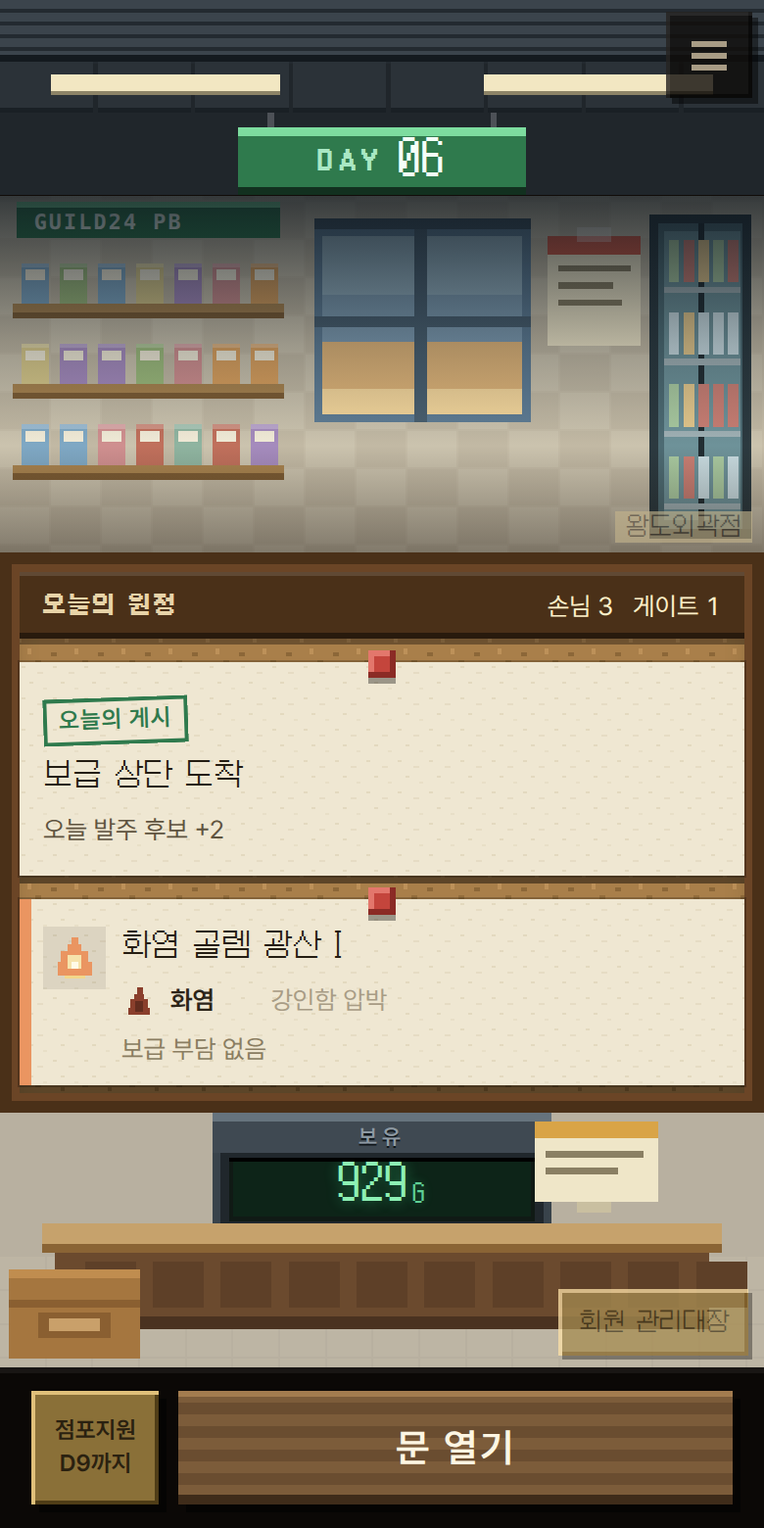
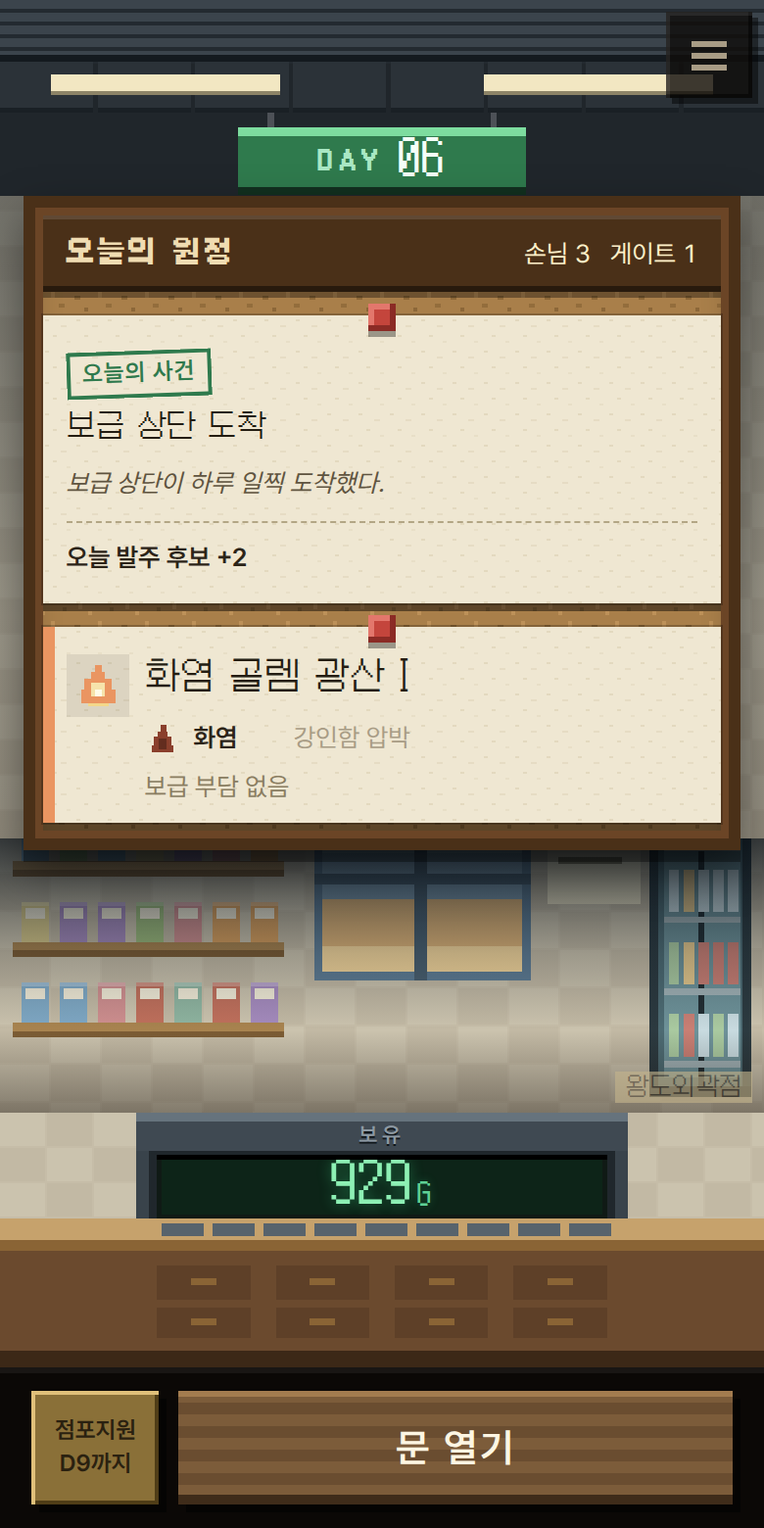
Stage 8.5 batch 5: Morning is read in the order it is decided
The room was built furniture-first. Ceiling and counter are art sized to
the column, so a wider window made them taller and the notice board got
what was left: measured at 1280 the board was 14px holding 272px of gates.
Batch 4 moved the board into its own column, which gave it height but made
it a side panel - 778px of cork holding 121px of notices - while DAY and
the till sat at x=439 of 1280. Both are the same mistake at different
angles: the scenery took its share before the decision did.

The board now hangs on the wall directly under the day sign and is as tall
as what is pinned to it; the wall absorbs the slack; the counter closes the
room. Measured at 390 / 900 / 1280: DAY, the board and the till all centre
on the screen to within a pixel, and the board is the largest band on it.
The art boxes for the ceiling and the counter are capped so neither grows
with the window again.

The counter carries the float and nothing else. A promo standee, a crate
stack and the store-support plates used to flank the register, so the one
thing the player reads there was the smallest object on the surface, and
the counter stopped short of the floor so the whole fixture read as
hovering. The dressing is gone, the register takes that width back, the
counter runs the width of the room on a plinth with its own drawers, and
the band continues that edge column either side of the capped art. The
standing store-support list moved into the store menu.
[…]

diff --git a/dist/ui/app.js b/dist/ui/app.js
@@ -174,20 +174,24 @@ function specialUI(){const s=game.run,e=s.special;if(!e||e.used)return '';if(e.k
 // (ceiling and shutter, shelving wall, notice board, counter) and the interface hangs on
 // those surfaces: the day on the shop sign, today's gates pinned to the board, the till
 // showing the float, the store support sitting on the counter.
+/* The board is hung high on the wall, directly under the day sign, because that is the
+   order the morning is read in: DAY, then today's expedition, then the Gates and their
+   Hazards, then the float on the counter, then the shutter. The scenery keeps whatever
+   room is left over rather than taking its share first. */
 function morningScreen(){
  const s=game.run;
  return '<div class="stage p-morning">'+menuFab()
  +'<div class="store">'
   +'<div class="band ceiling"><span class="mount">'+Scene.ceiling()
    +'<span class="daysign" style="'+Scene.anchorStyle('daysign')+'"><i>DAY</i><b>'+String(s.day).padStart(2,'0')+'</b></span></span></div>'
-  +'<div class="band wall">'+Scene.wall(s.day)+'<span class="branchplate">'+E(s.branch)+'</span></div>'
   +'<div class="board" id="phase-content" tabindex="-1" aria-label="아침">'
    +'<p class="board-rail" id="visitor-count">오늘의 원정<b>손님 '+s.queue.length+'</b><b>게이트 '+s.dungeons.length+'</b></p>'
    +'<div class="pinned">'+(s.event?eventSlip(s.event):'')+deepSlip()+s.dungeons.map(gatePlate).join('')+specialUI()+'</div></div>'
+  +'<div class="band wall">'+Scene.wall(s.day)+'<span class="branchplate">'+E(s.branch)+'</span></div>'
   +'<div class="band counter"><span class="mount">'+Scene.counter()
    +'<span class="till-cap" style="'+Scene.anchorStyle('tillLabel')+'">보유</span>'
    +'<span class="till" style="'+Scene.anchorStyle('till')+'" aria-label="보유 자금 '+fmt(s.money)+'G"><b class="coin">'+fmt(s.money)+'</b><i>G</i></span>'
-   +relicTray()+'</span></div>'
+   +'</span></div>'
  +'</div>'
  +'<div class="dock">'+relicWindowLink()+'<button class="pull" data-action="begin-order"><span>문 열기</span></button></div></div>';
 }
@@ -211,16 +215,19 @@ function deepSlip(){
  +(taken?'<span class="body">'+E(c.paid)+' '+fmt(t.paid)+'G · '+E(c.sink)+'</span>'
         :'<span class="body">'+E(c.cost)+' '+E(c.gain)+'</span><span class="body">'+E(c.sink)+' '+E(c.optional)+'</span>')
  +'</div>';}
+/* EVENT §3-1. Three things have to arrive at once: that something happened today, what
+   happened, and what is switched on because of it. The catalog already keeps those last two
+   apart - `reveal` is the situation and `description` is the effect - so the notice says both
+   and sets them apart instead of showing the effect line alone with no cause. */
 function eventSlip(e){
  return '<button class="slip event" data-action="event-again"><span class="pin"></span>'
- +'<span class="stamp-line">오늘의 게시</span><b>'+E(e.name)+'</b><span class="body">'+E(e.description)+'</span></button>';}
-// Store support sits on the counter as small brass plates, not a list.
-function relicTray(){const owned=game.ownedRelics();if(!owned.length)return '';
- return '<span class="tray">'+owned.slice(0,5).map(r=>'<button class="plate" data-action="relics">'+E(r.name)+'</button>').join('')
- +(owned.length>5?'<button class="plate more" data-action="relics">+'+(owned.length-5)+'</button>':'')+'</span>';}
-// Owned store support reads as small brass plates screwed to the wall, not a list.
-function relicStrip(){const owned=game.ownedRelics();if(!owned.length)return '';
- return '<div class="relic-strip"><span class="lab">점포지원</span>'+owned.map(r=>'<button class="plate" data-action="relics">'+E(r.name)+'</button>').join('')+'</div>';}
+ +'<span class="stamp-line">오늘의 사건</span><b>'+E(e.name)+'</b>'
+ +'<span class="flavor">'+E(e.reveal)+'</span>'
+ +'<span class="effect">'+E(e.description)+'</span></button>';}
+/* Owned store support used to sit on the counter as a row of brass plates, which is where
+   the float is. It crowded the till off its own surface, so the counter now carries the
+   register and nothing else and the standing list lives in the store menu instead - the same
+   modal, reached from where every other standing reference is reached. */
 function relicWindowLink(){const w=game.run.relicWindow;if(!game.canBuyRelic())return '';
  return '<button class="brass" data-action="relics">점포지원<br>'+(w.milestoneDay===0?'무료':'D'+(w.expiryDay-1)+'까지')+'</button>';}
 // The readiness readout. Qualitative only: 우세/접전/불리 and 취약/불안/대응/충분.
@@ -634,8 +641,8 @@ const isLocked=e=>(e.metaUnlock&&Meta.distinctBossClear(game.account)<e.metaUnlo
 
 function codex(){const a=game.account;let list=codexTab==='items'?D.items:codexTab==='jobs'?D.jobs:codexTab==='facilities'?D.relics:codexTab==='contracts'?D.contracts:[];return `<div class="row between wrap" style="margin-bottom:18px"><div><h3>본사 ${GRADE_COPY[Meta.grade(a)].label}</h3><p class="smalltext">${GRADE_COPY[Meta.grade(a)].flavor}</p><p class="smalltext">직업 숙련 ${Meta.totalJobMastery(a)} / 42 · 서로 다른 마왕 토벌 ${Meta.distinctBossClear(a)} / 7</p></div><span class="muted">${a.runs}회 영업 · ${a.wins}회 마왕 토벌</span></div><details><summary>발견 수첩 · ${(a.discoveries||[]).length}개</summary>${(a.discoveries||[]).map(e=>`<p class="discovery">${E(e.text)}</p>`).join('')||'<p>아직 기록된 발견이 없다.</p>'}</details><div class="tabs">${[['items','상품 '+D.items.length],['jobs','직업 6'],['facilities','점포지원 '+D.relics.length],['monsters','몬스터 지식'],['contracts','시작 계약']].map(([id,label])=>btn(label,'codex-tab',codexTab===id?'small active':'small',`data-id="${id}"`)).join('')}</div><div class="unlock-grid">${codexTab==='monsters'?D.dungeons.filter(d=>d.id!=='final').map(d=>{const seen=a.knowledge[d.id]||0;return `<div class="unlock ${seen?'':'locked'}"><h3>${seen?d.monster:'???'}</h3><p>${d.name} · 보급 생환 ${seen}회</p><p>${seen?d.hazards.slice(0,seen>=3?3:1).map(h=>D.hazards[h]).join(' · '):'위험 특성 ???'}</p><p>${seen>=5?'약점: '+d.weakness:'약점 ???'}</p></div>`;}).join(''):list.map(it=>`<div class="unlock ${isLocked(it)?'locked':''}">${codexTab==='items'?Art.itemIcon(it.id,42):''}<h3>${E(it.name)}</h3><p>${E(it.description||'길드 등록 직업.')}</p>${it.effects?effectList(it):''}<p class="gold-text" style="margin-top:8px">${unlockProgress(it)}</p></div>`).join('')}</div>`;}
 function stockModal(){const s=game.run;return `<p class="muted" style="margin-bottom:15px">유통기한은 입고일부터 계산합니다. 재고 정리는 상품 기본 매입가의 50%를 회수합니다.</p><div class="unlock-grid">${groupStock().map(st=>{const it=D.itemBy[st.item];return `<div class="unlock">${Art.itemIcon(it.id,43)}<h3>${it.name} ×${st.count}</h3><p>${st.expires===null?'유통기한 없음':(st.expires-s.day)+'일 남음'}</p>${['morning','order','night','closing','final'].includes(s.phase)?btn('1개 정리 +'+Math.floor(it.buy*.5)+'G','liquidate','small',`data-id="${st.id}"`):''}</div>`;}).join('')||'<p>창고가 비어 있습니다.</p>'}</div>`;}
-function newRun(){return `<div class="eyebrow">길드리테일 가맹 계약</div><h2 class="welcome-title">오늘도 문을 연다.</h2><p class="muted">기본 자금 1,200G · 창고 24칸 · 마왕성 개방까지 30일.</p><div class="welcome-band">계약서를 접어 카운터 아래 넣었다. 시작 재고는 창고에 있다.</div><h3 style="margin-bottom:10px">시작 계약</h3><div class="contract-grid">${D.contracts.map(c=>{const locked=!Meta.contractUnlocked(game.account,c);return `<button class="contract ${contract===c.id?'active':''}" data-action="contract" data-id="${c.id}" ${locked?'disabled':''}><strong>${c.name}${locked?' · 잠김':''}</strong><span class="muted">${c.description}</span>${locked?'<br><small>'+unlockProgress(c)+'</small>':''}</button>`;}).join('')}</div><details style="margin-top:15px"><summary class="smalltext">재현용 Seed 지정</summary><label class="smalltext" for="seed">비워 두면 새로운 Seed로 시작합니다.</label><input id="seed" class="seed-field" placeholder="예: guild24-first-shift" maxlength="80" value="${game.run?.phase==='foundation'?E(game.run.seed):''}"></details>${game.run?.phase==='foundation'?'<p class="smalltext" style="margin-top:10px">계약만 바꿉니다. 이 점포의 점포지원 후보와 첫 모험가는 그대로입니다.</p>':''}${game.run&&!['end','foundation'].includes(game.run.phase)?'<p class="danger-text" style="margin-top:14px">현재 런을 보상 없이 포기하고 새 점포를 시작합니다.</p>':''}`;}
-function settings(){return `<div class="stack"><p>자동저장은 현재 브라우저에 보관됩니다. 다른 기기로 옮길 때 저장 파일을 내보내세요.</p><div class="row wrap">${btn('저장 내보내기','export','stamp')}${btn('저장 가져오기','import')}</div><div class="row wrap">${btn(game.account.settings.muted?'소리 켜기':'소리 끄기','sound')}</div><hr style="border:0;border-top:1px solid var(--line);width:100%"><p class="muted">게임의 시간은 행동할 때만 흐릅니다. 소리는 처음에 꺼져 있습니다.</p>${game.run&&game.run.phase!=='end'?btn('현재 런 포기 · 새 점포 준비','new','danger'):''}<div class="row wrap">${btn('모든 게임 데이터 초기화','reset','danger')}</div><small>버전 0.4 · 로컬 실행 지원 · 외부 연결 없음</small></div>`;}
+function newRun(){return `<div class="eyebrow">길드리테일 가맹 계약</div><h2 class="welcome-title">오늘도 문을 연다.</h2><p class="muted">기본 자금 1,200G · 창고 24칸 · 마왕성 개방까지 30일.</p><div class="welcome-band">계약서를 접어 카운터 아래 넣었다. 시작 재고는 창고에 있다.</div><h3 style="margin-bottom:10px">시작 계약</h3><div class="contract-grid">${D.contracts.map(c=>{const locked=!Meta.contractUnlocked(game.account,c);return `<button class="contract ${contract===c.id?'active':''}" data-action="contract" data-id="${c.id}" ${locked?'disabled':''}><strong>${c.name}${locked?' · 잠김':''}</strong><span class="muted">${c.description}</span>${locked?'<br><small>'+unlockProgress(c)+'</small>':''}</button>`;}).join('')}</div><details style="margin-top:15px"><summary class="smalltext">재현용 Seed 지정</summary><label class="smalltext" for="seed">비워 두면 새로운 Seed로 시작합니다.</label><input id="seed" class="seed-field" placeholder="예: guild24-first-shift" maxlength="80" value="${game.run?.phase==='foundation'?E(game.run.seed):''}"></details>${game.run?.phase==='foundation'?'<p class="smalltext" style="margin-top:10px">계약만 바꿉니다. 이 점포의 점포지원 후보와 첫 모험가는 그대로입니다.</p>':''}${game.run&&!['end','foundation'].includes(game.run.phase)?'<p class="danger-text" style="margin-top:14px">지금 진행 상황을 모두 포기하고 새로운 점포를 시작합니다. 보상은 없습니다.</p><p class="smalltext">본사 기록은 그대로 남습니다. 도감 · 가맹등급 · 해금은 지워지지 않습니다.</p>':''}`;}
+function settings(){return `<div class="stack"><p>자동저장은 현재 브라우저에 보관됩니다. 다른 기기로 옮길 때 저장 파일을 내보내세요.</p><div class="row wrap">${btn('저장 내보내기','export','stamp')}${btn('저장 가져오기','import')}</div><div class="row wrap">${btn(game.account.settings.muted?'소리 켜기':'소리 끄기','sound')}</div><hr style="border:0;border-top:1px solid var(--line);width:100%"><p class="muted">게임의 시간은 행동할 때만 흐릅니다. 소리는 처음에 꺼져 있습니다.</p>${game.run&&game.run.phase!=='end'?btn('현재 지점 포기','new','danger'):''}<div class="row wrap">${btn('모든 게임 데이터 초기화','reset','danger')}</div><small>버전 0.4 · 로컬 실행 지원 · 외부 연결 없음</small></div>`;}
 function help(){return `<div class="stack"><h3>점포지원</h3><p>DAY 0에는 무료로 하나를 선택합니다. DAY 5·10·15·20·25·30에는 자금을 써서 구매합니다. 사지 않은 후보는 다음 구매 기회 전날까지 보류할 수 있습니다. 판매 중에는 구매할 수 없습니다.</p><h3>발주</h3><p>기본 방문객은 3~6명. 시설·계약·이벤트와 활동 가능한 모험가 수에 따라 달라집니다. 아침에 표시된 인원은 오늘 실제 방문할 인원입니다. 게이트는 초반 1곳에서 후반 최대 3곳까지 열리고, 임시 게이트가 추가될 수 있습니다.</p><p>수량을 고른 뒤 발주를 확정합니다. 남은 재고와 유통기한, 운영비도 확인하세요.</p><h3>판매와 관계</h3><p>목적지·능력·특성을 보고 상품을 고릅니다. 바가지는 수입과 관계를 맞바꾸고, 반값은 이익을 포기해 손님에게 투자합니다. 정가는 기본 거래입니다. 같은 상품·같은 가격으로 거절당한 제안은 그날 반복할 수 없습니다.</p><p>단골도는 구매 의사와 재방문에 영향을 줍니다. 능력을 직접 올리지는 않습니다. 손님의 특성은 처음부터 전부 표시되며, 표시된 특성이 원정에서 실제로 작용하는 특성입니다.</p><h3>원정과 마감</h3><p>판매한 소비품은 그날 원정에서 사용됩니다. 기본 2칸, Lv.10부터 최대 3칸입니다. 밤에는 귀환 결과를 보고, 마감에서 거래와 보급의 작용을 확인합니다.</p><p>사망은 이번 영업에서 영구적입니다. 중상은 며칠의 휴식이 필요합니다. 30일에는 마지막 발주와 점포지원을 결정하고, 최대 3명에게 보급해 마왕성으로 보냅니다.</p><p>영업이 끝나면 상품 해금·몬스터 지식·발견·가맹등급은 남습니다. 모험가·재고·돈·설비는 다음 영업에 이어지지 않습니다.</p><p>적자일 때는 재고 정리로 운영비를 충당할 수 있습니다. 시간을 재촉하는 제한은 없습니다.</p></div>`;}
 /* Which reveal this Day owes the player, if any. Seen state is persisted, so a reload
    cannot replay a reveal or reorder it (BOSS-Q02, UI-Q40). */
@@ -679,14 +686,14 @@ function renderModal(){const root=$('#modal-root');if(!modal){root.innerHTML='';
   body=bossReveal();
   footer=btn(stage==='d30'?c.d30.button:stage==='d15'?c.d15.button:c.d5.button,'boss-seen','stamp');
   narrow=stage!=='d30';}
- else if(modal==='new'){title='새 점포 준비';body=(Save.error?'<p class="save-alert">'+E(Save.error)+'</p>':'')+newRun();footer=game.run&&!['end','foundation'].includes(game.run.phase)?btn('현재 런 포기 · 새 점포 준비','start','danger'):btn('첫 점포지원 고르기','start','stamp');narrow=true;}
+ else if(modal==='new'){title='새 점포 준비';body=(Save.error?'<p class="save-alert">'+E(Save.error)+'</p>':'')+newRun();footer=game.run&&!['end','foundation'].includes(game.run.phase)?btn('현재 지점 포기','start','danger'):btn('첫 점포지원 고르기','start','stamp');narrow=true;}
  else if(modal==='event'){title=E(s.event?.name||'오늘의 사건');body=eventReveal();footer=btn('오늘 상황 보기','event-seen','stamp');narrow=true;}
  else if(modal==='gates'){title='오늘 열린 게이트';body='<div class="gate-plates">'+s.dungeons.map(gatePlate).join('')+'</div>';}
- else if(modal==='menu'){title='점포 메뉴';body='<div class="menu-list">'+btn('모험가 수첩','roster')+btn('도감','codex')+btn('점주 가이드','help')+btn('설정 · 저장','settings')+btn('소리 켜기 / 끄기','sound')
+ else if(modal==='menu'){title='점포 메뉴';body='<div class="menu-list">'+btn('모험가 수첩','roster')+btn('도감','codex')+(game.run&&game.ownedRelics().length?btn('점포지원','relics'):'')+btn('점주 가이드','help')+btn('설정 · 저장','settings')+btn('소리 켜기 / 끄기','sound')
   /* Both destructive actions are named here rather than hidden inside 설정, and they are
      named apart: one ends this Run, the other ends everything. The Run one is absent when
      there is no Run to abandon rather than present and inert. */
-  +(game.run&&!['end','foundation'].includes(game.run.phase)?btn('현재 런 포기','new','danger'):'')
+  +(game.run&&!['end','foundation'].includes(game.run.phase)?btn('현재 지점 포기','new','danger'):'')
   +btn('모든 게임 데이터 초기화','reset','danger')+'</div>';narrow=true;}
  else if(modal==='roster'){title='모험가 수첩';body=rosterList();}
  else if(modal.startsWith('npc:')){title='우리 점포의 모험가';body=npcDetail(modal.slice(4));footer=btn('수첩으로','roster');}
@@ -695,7 +702,7 @@ function renderModal(){const root=$('#modal-root');if(!modal){root.innerHTML='';
  else if(modal==='help'){title='점주 가이드';body=help();narrow=true;}
  else if(modal==='settings'){title='영업 설정';body=settings();narrow=true;}
  else if(modal==='bossConfirm'){title='제0게이트 — 마지막 출발';body='<p>선택한 원정대가 마왕성으로 출발합니다. 남은 슬롯과 보급을 확인하셨나요?</p>';footer=btn('보급으로 돌아가기','dismiss')+btn('최종 원정 시작','boss-go','stamp');narrow=true;}
- else if(modal==='retireConfirm'){title='이번 영업을 마감할까요?';body='<p>현재 런의 자원과 모험가는 다음 런으로 이어지지 않습니다.</p>';footer=btn('계속 영업','dismiss')+btn('폐점','retire-go','danger');narrow=true;}
+ else if(modal==='retireConfirm'){title='이번 영업을 마감할까요?';body='<p>이 지점의 자금과 모험가는 다음 점포로 이어지지 않습니다.</p>';footer=btn('계속 영업','dismiss')+btn('폐점','retire-go','danger');narrow=true;}
  else if(modal==='resetConfirm'){title='모든 게임 데이터 초기화';body='<p>이 브라우저에 보관된 GUILD24 저장을 전부 지웁니다. 현재 영업, 모험가, 재고, 자금, 점포지원과 함께 직업 숙련 · 마왕 토벌 기록 · 가맹등급 · 몬스터 지식 · 해금과 점주 가이드 진행까지 남지 않습니다.</p><p class="danger-text">되돌릴 수 없습니다. 남기고 싶다면 먼저 저장을 내보내 주세요.</p>';footer=btn('저장 내보내기','export')+btn('취소','dismiss')+btn('전부 지우기','reset-go','danger');narrow=true;}
  else if(modal==='importConfirm'){title='저장 파일 가져오기';body='<p>현재 브라우저의 진행을 가져온 저장으로 교체합니다. 기존 진행을 남기려면 먼저 내보내 주세요.</p>';footer=btn('저장 내보내기','export')+btn('파일 선택','import-go','stamp');narrow=true;}
  else if(modal==='debug'){title='개발용 Debug · 일반 플레이 비노출';body=`<pre class="debug">${E(JSON.stringify({seed:s.seed,rngState:s.rngState,lastRNG:game.rng.last,offers:s.offers.map(o=>({...o,rarity:D.itemBy[o.item].rarity})),npc:game.current(),dungeons:s.dungeons,results:s.results.map(r=>({name:r.name,outcome:r.outcome,...r.debug})),boss:s.bossDebug},null,2))}</pre>`;}

diff --git a/dist/ui/ui.css b/dist/ui/ui.css
@@ -119,13 +119,36 @@ input[type=text],.seed-field{background:#0b0806;border:0;box-shadow:inset 2px 2p
    Four stacked bands build a room; the interface hangs on their surfaces.
    ===================================================================== */
 .p-morning{background:#100c09}
-.store{flex:1;min-height:0;display:flex;flex-direction:column;overflow:hidden}
+/* The room reads top to bottom in the order the morning is decided: the day sign, the
+   notice board on the wall under it, the room itself, the counter with the float, the
+   shutter. The wall is the only band that grows, so the scenery takes what is left after
+   the decision rather than before it. */
+.store{position:relative;flex:1;min-height:0;display:flex;flex-direction:column;overflow:hidden;
+ background:linear-gradient(180deg,#0a121a8c 0,#0a121a3d 45%,#140d0866 100%),var(--tex-tile),#c6bda8;
+ background-size:auto,48px 36px}
 .band{position:relative;flex-shrink:0;width:100%}
-/* anchors are percentages of the ART, so the mount is exactly the art's box */
-.band .mount{position:relative;display:block;width:100%}
+/* anchors are percentages of the ART, so the mount is exactly the art's box. Capping the
+   mount stops the ceiling and the counter from growing with the column - left uncapped they
+   took 422px of an 860px viewport at 1280 and the decision got the remainder. The cap is
+   centred, so the day sign and the till (both anchored to the middle of their art) land on
+   the middle of the screen. */
+.band .mount{position:relative;display:block;width:100%;max-width:var(--roomw,100%);margin:0 auto}
 .band .band-art{display:block;width:100%;height:auto}
-.band.wall{flex:1 1 auto;min-height:104px;overflow:hidden;background:var(--tex-tile),#c6bda8;background-size:48px 36px}
-.band.wall .band-art{position:absolute;left:0;right:0;bottom:0;width:100%;height:auto}
+/* each band still spans the screen: outside the capped art it carries that art's own ground -
+   the ceiling's panelling, the floor tiling the counter stands on */
+.band.ceiling{background:#20262b}
+/* The counter art is capped so the register does not grow with the window, so the band
+   continues the counter's own edge column either side of it - slab, front edge, body, plinth
+   at the heights the art draws them (50/60/65/112 of 120). Above the slab the room carries on
+   as wall. Without this the counter reads as an island floating in the middle of the floor. */
+.band.counter{background:linear-gradient(180deg,
+  #0000 0,#0000 41.67%,#c6a26c 41.67%,#c6a26c 50%,#8a6435 50%,#8a6435 54.17%,
+  #6b4a2e 54.17%,#6b4a2e 93.33%,#3c2817 93.33%),var(--tex-tile),#c6bda8;
+ background-size:auto,48px 36px}
+.band.wall{flex:1 1 auto;min-height:32px;overflow:hidden;background:var(--tex-tile),#c6bda8;background-size:48px 36px}
+/* the wall art is authored to slice, so let it cover whatever height the wall is left with -
+   anchored to the bottom it showed only a washed sliver of floor once the board took the room */
+.band.wall .band-art{position:absolute;inset:0;width:100%;height:100%}
 .band.wall:after{content:'';position:absolute;inset:0;
  background:linear-gradient(180deg,#0a121ac4 0,#0a121a3d 42%,#00000000 70%,#140d0866 100%)}
 /* the shop sign hanging from the ceiling carries the day */
@@ -134,13 +157,20 @@ input[type=text],.seed-field{background:#0b0806;border:0;box-shadow:inset 2px 2p
 .daysign b{font:400 24px/1 var(--f-led);color:#f4fff8;-webkit-font-smoothing:none}
 .branchplate{position:absolute;right:6px;bottom:5px;z-index:2;padding:2px 5px;font:400 12px/1 var(--f-plate);
  color:#5a5040;background:#c4b48c;opacity:.62;-webkit-font-smoothing:none}
-/* ---- notice board: the day's gates, pinned to cork ---- */
-.board{flex:0 1 auto;min-height:0;max-height:54%;overflow-y:auto;overscroll-behavior:contain;outline:none;
+/* ---- notice board: the day's gates, pinned to cork ----
+   A board hung on the wall, so it is as tall as what is pinned to it. It used to be a
+   full-bleed strip that either got squeezed to 14px or, as a column, stood 778px tall
+   holding 121px of notices - 84% bare cork. It now hugs its content and only scrolls on a
+   day that genuinely overflows. */
+.board{position:relative;z-index:2;flex:0 1 auto;min-height:0;max-height:62%;width:min(680px,94%);
+ margin:0 auto -6px;overflow-y:auto;overscroll-behavior:contain;outline:none;
  background:var(--tex-cork),#a97f4a;
- box-shadow:inset 0 0 0 6px #4a3018,inset 0 0 0 10px #6b4526,inset 0 8px 18px #00000073,0 -4px 0 #00000059}
+ box-shadow:inset 0 0 0 6px #4a3018,inset 0 0 0 10px #6b4526,inset 0 8px 18px #00000073,
+  0 6px 0 #00000059,0 10px 22px #00000073}
+/* the board's own header: the first thing read after the day */
 .board-rail{position:sticky;top:0;z-index:3;display:flex;align-items:center;gap:10px;flex-wrap:wrap;
- margin:10px 10px 0;padding:8px 12px;background:#4a3018;color:#e7d3a8;
- font:700 12px/1.5 var(--f-sign);letter-spacing:.06em;-webkit-font-smoothing:none;
+ margin:10px 10px 0;padding:9px 12px;background:#4a3018;color:#f0dcb2;
+ font:700 15px/1.4 var(--f-sign);letter-spacing:.06em;-webkit-font-smoothing:none;
  box-shadow:inset 0 2px 0 #ffffff1f,inset 0 -3px 0 #00000073,0 3px 0 #00000059}
 .board-rail b{margin-left:auto;font:400 13px/1 var(--ui);font-variant-numeric:tabular-nums;color:#fff0c9;letter-spacing:0}
 .board-rail b+b{margin-left:0}
@@ -157,6 +187,8 @@ input[type=text],.seed-field{background:#0b0806;border:0;box-shadow:inset 2px 2p
 .slip.gate:before{content:'';position:absolute;left:0;top:0;bottom:0;width:6px;background:var(--fam,#caa46a)}
 .slip .crest{position:absolute;left:12px;top:14px;width:32px;height:32px;display:grid;place-items:center;background:#00000014}
 .slip>b{display:block;font:400 15px/1.4 var(--f-plate);-webkit-font-smoothing:none;margin-bottom:7px;color:#241d12}
+/* the Gate name is the decision the morning is about, so it outranks everything else pinned up */
+.slip.gate>b{font-size:18px;margin-bottom:8px}
 .slip .hazards{display:grid;gap:3px}
 .slip .hazards li{display:flex;align-items:center;gap:7px;font:400 13px/1.55 var(--ui);color:#5f5440}
 .slip .hazards .hz-icon{flex-shrink:0;color:#8a3f2c}
@@ -167,16 +199,20 @@ input[type=text],.seed-field{background:#0b0806;border:0;box-shadow:inset 2px 2p
 .slip.event{padding-top:16px}
 .slip.event .stamp-line{margin:0 0 6px;color:#2f7a4d;box-shadow:inset 0 0 0 2px #2f7a4d}
 .slip.event .body{display:block;font:400 13px/1.6 var(--ui);color:#5f5440}
+/* EVENT §3-1: what happened, then what it switched on. The situation keeps the line breaks
+   it was authored with; the effect is a stated fact, ruled off from the story above it. */
+.slip.event .flavor{display:block;white-space:pre-line;font:400 13px/1.7 var(--ui);color:#5f5440;font-style:italic}
+.slip.event .effect{display:block;margin-top:8px;padding-top:8px;border-top:1px dashed #b3a685;
+ font:600 13px/1.6 var(--ui);color:#2c2418}
+.event-reveal .flavor{margin:0;white-space:pre-line;font:400 15px/1.7 var(--ui);color:#cbbba0;font-style:italic}
+.event-reveal .effect{margin:14px 0 0;padding-top:12px;border-top:1px dashed #ffffff26;
+ font:600 14px/1.6 var(--ui);color:var(--gold)}
 /* ---- counter band: the till and the store support tray ---- */
 .till-cap{position:absolute;z-index:2;display:flex;align-items:center;justify-content:center;overflow:hidden;
  white-space:nowrap;font:600 11px/1 var(--ui);letter-spacing:.22em;color:#8e9aa3;text-shadow:0 1px 0 #10161a}
 .till{position:absolute;z-index:2;display:flex;align-items:baseline;justify-content:center;gap:2px;overflow:hidden;white-space:nowrap}
-.till i{font:400 13px/1 var(--f-led);font-style:normal;color:#5fd196;-webkit-font-smoothing:none;text-shadow:0 0 5px #3fe08c4d}
-.till b{font:400 24px/1 var(--f-led);color:#8df0b4;text-shadow:0 0 7px #3fe08c73;-webkit-font-smoothing:none}
-.tray{position:absolute;left:34%;bottom:5%;right:2%;z-index:2;display:flex;gap:5px;flex-wrap:wrap;justify-content:flex-end}
-.tray .plate{min-height:34px;min-width:0;padding:8px 10px;font:400 12px/1 var(--f-plate);-webkit-font-smoothing:none;color:#463a1c;background:#a78d52;opacity:.75;
- box-shadow:inset 2px 2px 0 #ffe3a8,inset -2px -2px 0 #8a6a2c,2px 2px 0 #00000073}
-.tray .plate:hover{background:#d3b169}
+.till i{font:400 15px/1 var(--f-led);font-style:normal;color:#5fd196;-webkit-font-smoothing:none;text-shadow:0 0 5px #3fe08c4d}
+.till b{font:400 28px/1 var(--f-led);color:#8df0b4;text-shadow:0 0 7px #3fe08c73;-webkit-font-smoothing:none}
 /* ---- dock: the shutter pull ---- */
 .p-morning .dock{display:flex;gap:10px;align-items:stretch;background:#0b0806;box-shadow:inset 0 3px 0 #ffffff0f}
 .pull{flex:1;min-height:58px;padding:0;background:
@@ -891,20 +927,17 @@ input[type=text],.seed-field{background:#0b0806;border:0;box-shadow:inset 2px 2p
  .modal{max-height:88dvh;box-shadow:inset 0 0 0 3px #ffffff1a}
  .p-morning .dock .pull{flex:0 0 auto;min-width:280px;margin-left:auto}
  .p-order .dock .stamp{flex:0 0 auto;min-width:300px;margin-left:auto}
- /* MORNING at tablet width and up. The room's bands are drawn from art sized to the column,
-    so as the column gets wider the ceiling and the counter get taller and push the notice
-    board out: measured at 1280 the board was 14px tall holding 272px of gates, while the
-    scenery took 659px of an 860px viewport. The store is the screen, but the gates are the
-    decision - so the room keeps one column and the board takes the width that was going
-    spare, at full height, instead of being squeezed between two pieces of furniture. */
- .p-morning .store{display:grid;grid-template-columns:minmax(0,1fr) minmax(300px,36%);
-  grid-template-rows:auto minmax(0,1fr) auto}
- .p-morning .store>.band.ceiling{grid-area:1/1}
- .p-morning .store>.band.wall{grid-area:2/1}
- .p-morning .store>.band.counter{grid-area:3/1}
- .p-morning .store>.board{grid-area:1/2/4/3;max-height:none;min-height:0}
- /* the menu pin sits in the corner the board now reaches into, so the rail keeps clear of it */
- .p-morning .board-rail{padding-right:58px}
+ /* MORNING at tablet width and up. The room's furniture is art sized to the column, so left
+    alone the ceiling and the counter grow with the window and the decision gets the
+    remainder - at 1280 they took 422px of 860 between them. Capping the art box holds the
+    room at a human size and, because the day sign and the till are anchored to the middle
+    of their own art, centres both of them on the screen. The counter is capped harder than
+    the ceiling: the float is secondary to the Gates above it. */
+ .p-morning .band.ceiling .mount{--roomw:560px}
+ .p-morning .band.counter .mount{--roomw:560px}
+ /* the register is the only object left on this surface, so the float is set to fill it */
+ .p-morning .till b{font-size:34px}
+ .p-morning .till i{font-size:18px}
 }
 /* ============ 900px+ ============ */
 @media(min-width:900px){

diff --git a/dist/ui/scene.js b/dist/ui/scene.js
@@ -60,21 +60,28 @@ function wall(seed=7){
  s+=r(306,238,48,5,'#1d262a');
  return svg(360,250,s,'band-art','xMidYMax');
 }
-/* ---- counter: register, promo standee, stock crates, floor ---- */
+/* ---- counter: the register, the counter body it stands on, floor ---- */
+/* The counter carries the float, and nothing else. A promo standee and a stack of crates used
+   to flank the register and the store-support plates sat on top of it, so the till - the one
+   thing on this surface the player reads - was the smallest object on it, and the counter
+   stopped short of the floor so the whole thing read as hovering. The dressing is gone, the
+   register takes that width back, and the counter is a solid body standing on a plinth: its
+   own drawers instead of props, landed on the floor rather than floating over it. */
 function counter(){
- let s=r(0,0,360,120,'#b8b0a0');
- for(let y=68;y<120;y+=16)for(let x=0;x<360;x+=22)s+=r(x,y,21,15,(x/22+y/16)%2?'#bdb5a4':'#b1a998');
- s+=r(100,0,160,58,'#39434b')+r(100,0,160,4,'#66737d')+r(100,54,160,4,'#232a30')   // register casing
-  +r(104,19,152,34,'#20272c')+r(108,21,144,30,'#101a15')+r(110,23,140,26,'#0d2418')  // recessed display
-  +r(108,21,144,2,'#000000')+r(100,4,160,15,'#3f4952');                             // bezel + caption strip
- for(let i=0;i<7;i++)s+=r(110+i*21,60,17,7,'#57636c');
- s+=r(252,4,58,38,'#efe6c8')+r(252,4,58,8,'#d9a447')                            // promo standee
-  +r(257,18,46,3,'#8a7f63')+r(257,26,34,3,'#8a7f63')+r(272,42,16,5,'#c9bfa0');
- s+=r(20,52,320,10,'#c6a26c')+r(20,62,320,4,'#8a6435')+r(26,66,308,34,'#6b4a2e') // counter
-  +r(26,96,308,6,'#4a3220');
- for(let x=40;x<330;x+=32)s+=r(x,70,24,22,'#5e4028');
- s+=r(4,74,62,42,'#a5763f')+r(4,74,62,4,'#c08d4f')+r(4,88,62,4,'#8a5f31')       // crates
-  +r(18,94,34,12,'#8a5f31')+r(23,97,24,6,'#c9a06a');
+ /* Above the counter the art draws nothing: the band's own wall shows through, so the room
+    behind the register is the same surface on the art as it is either side of it. */
+ let s=r(64,0,232,56,'#39434b')+r(64,0,232,4,'#66737d')+r(64,52,232,4,'#232a30')     // register casing
+  +r(70,18,220,34,'#20272c')+r(74,20,212,30,'#101a15')+r(76,22,208,26,'#0d2418')  // recessed display
+  +r(74,20,212,2,'#000000')+r(64,4,232,14,'#3f4952');                             // bezel + caption strip
+ /* The counter runs the width of the room. Its edge column is a plain vertical stack, so the
+    band continues it either side of the art in CSS and the register reads as standing on one
+    long fixture rather than on an island floating in the middle of the floor. */
+ s+=r(0,50,360,10,'#c6a26c')+r(0,60,360,5,'#8a6435')      // counter top slab and its front edge
+  +r(0,65,360,47,'#6b4a2e')+r(0,112,360,8,'#3c2817');     // body, standing on a plinth
+ for(let i=0;i<4;i++){const x=74+i*56;                    // the till station's own drawers
+  s+=r(x,72,44,16,'#5e4028')+r(x,92,44,14,'#5e4028')
+   +r(x+16,78,12,3,'#8a6435')+r(x+16,97,12,3,'#8a6435');}
+ for(let i=0;i<9;i++)s+=r(76+i*24,52,20,6,'#57636c');     // keys, on the slab in front
  return svg(360,120,s,'band-art');
 }
 /* ---- GUILD24 corporate seal, used on the order form and the approval stamp ---- */
@@ -230,8 +237,8 @@ function slot(name,fallback,cls='band-art'){
    the art so a production replacement only has to restate these, never touch a screen. */
 const anchors={
  daysign:{band:'ceiling',left:31.1,top:65.2,width:37.8,height:34.8},
- tillLabel:{band:'counter',left:27.8,top:3.3,width:44.4,height:12.5},
- till:{band:'counter',left:30.6,top:19.2,width:38.9,height:21.7}
+ tillLabel:{band:'counter',left:18.9,top:3.3,width:62.2,height:11.7},
+ till:{band:'counter',left:21.1,top:18.3,width:57.8,height:25}
 };
 const anchorStyle=name=>{const a=anchors[name];return 'left:'+a.left+'%;top:'+a.top+'%;width:'+a.width+'%;height:'+a.height+'%';};
 G.Scene={ceiling:()=>slot('store.ceiling',ceiling),wall:()=>slot('store.wall',wall),counter:()=>slot('store.counter',counter),
